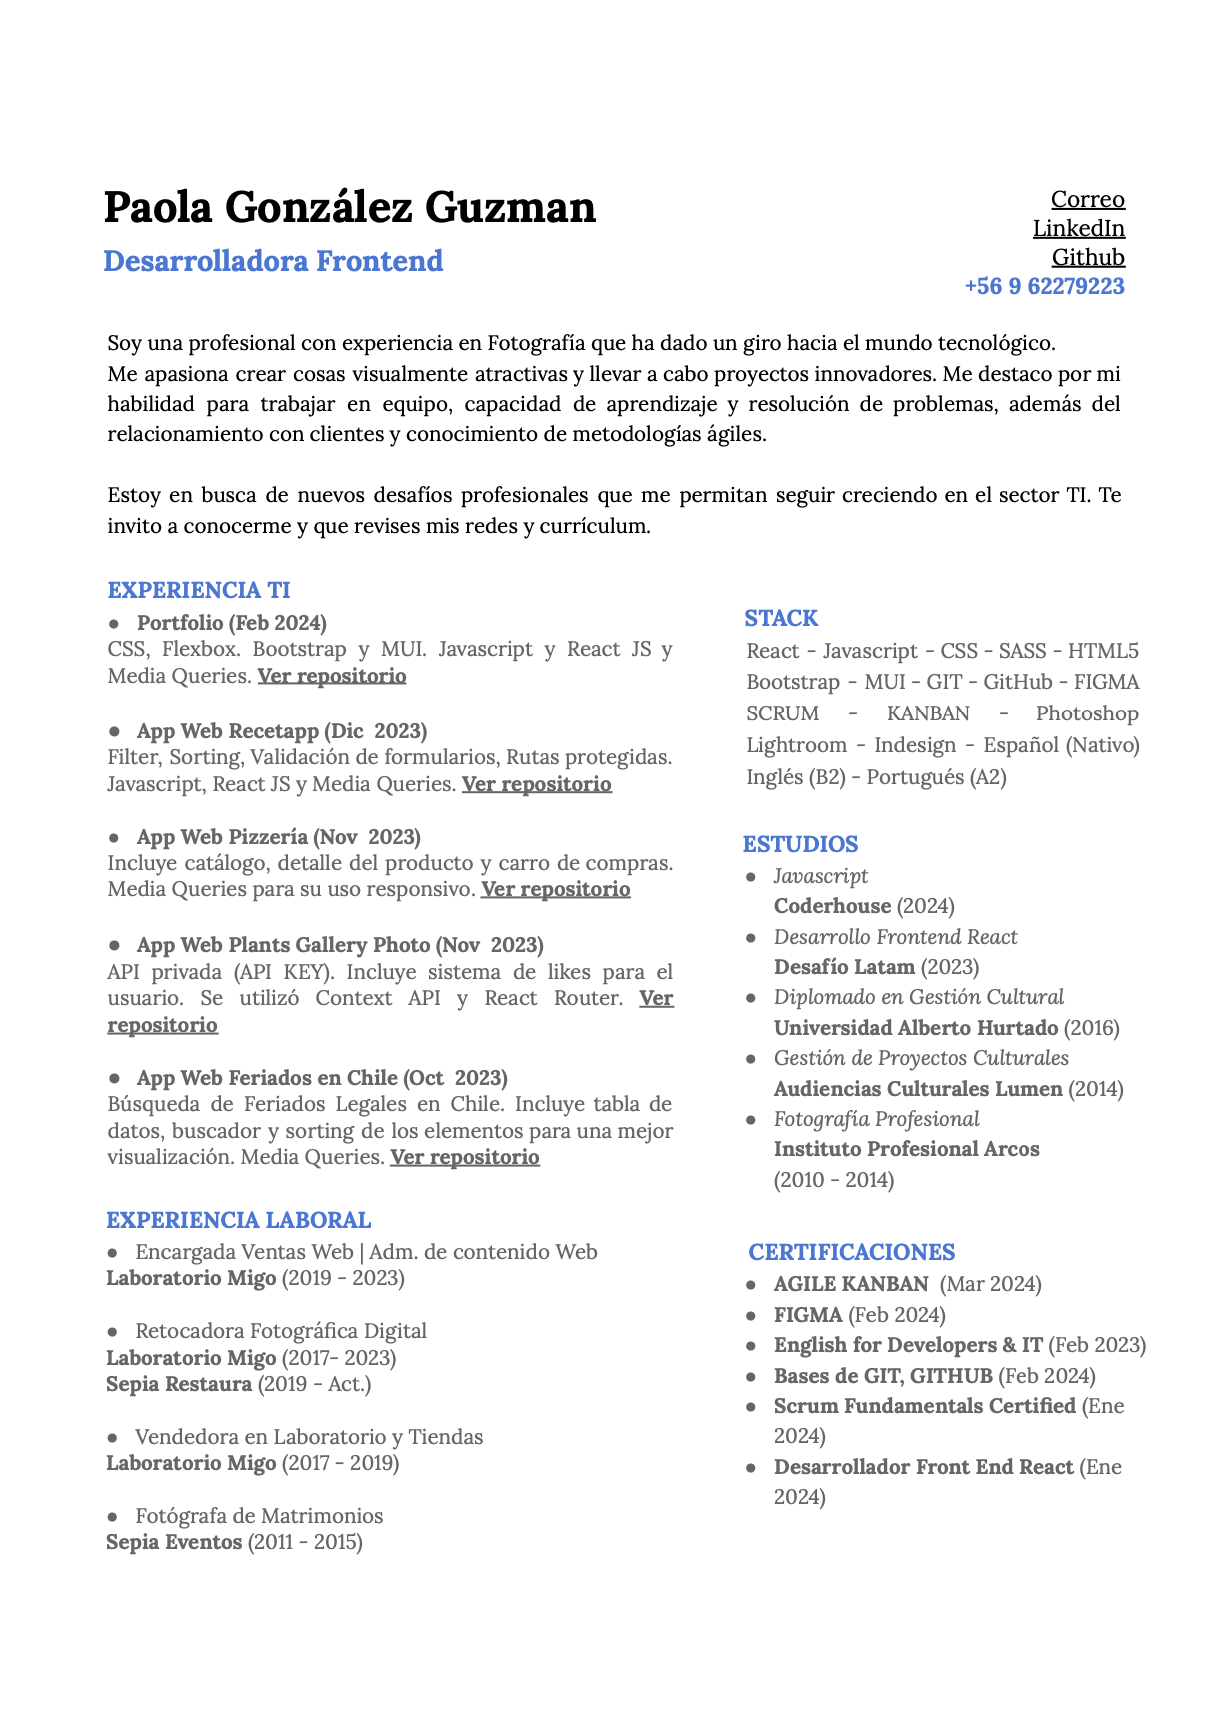
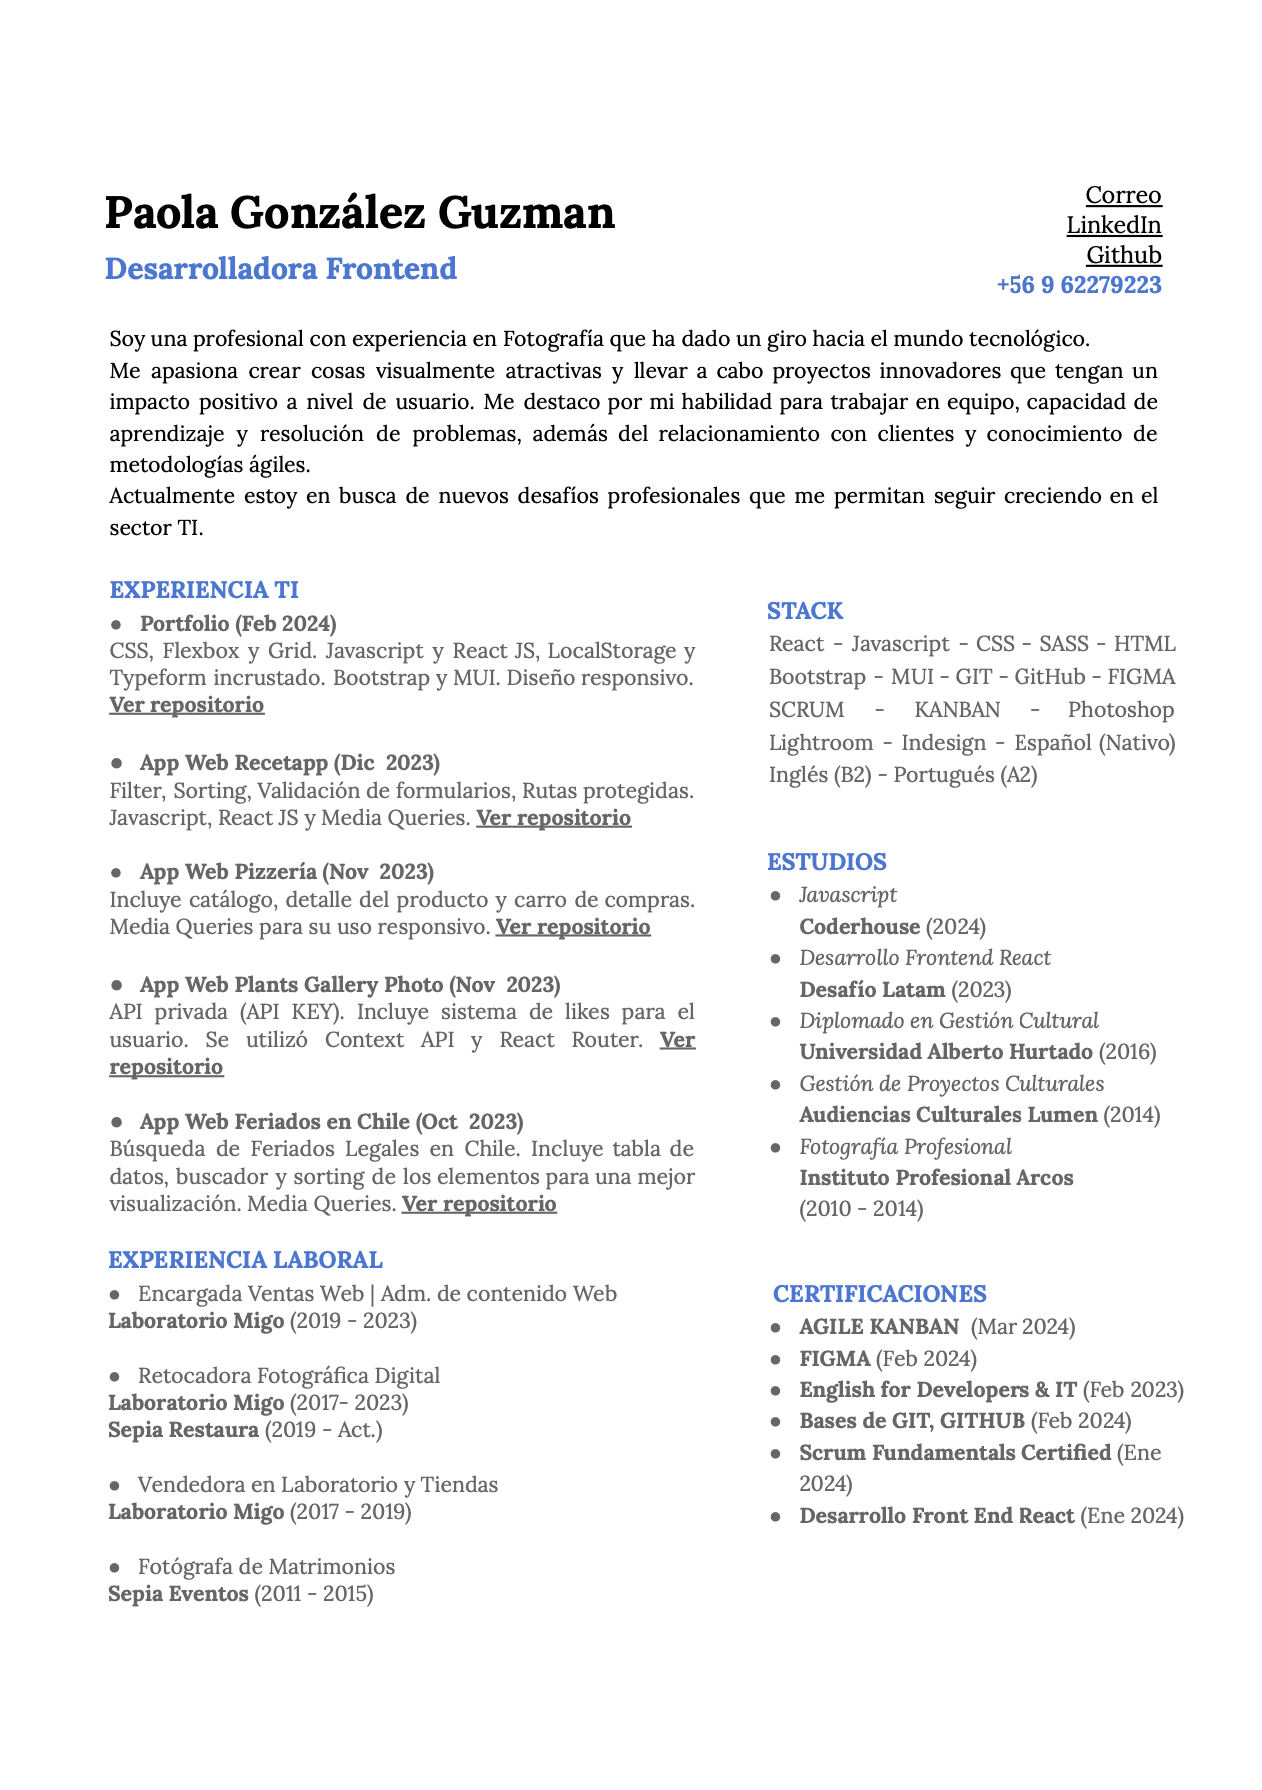
cv changes

diff --git a/src/components/CaruselCert.jsx b/src/components/CaruselCert.jsx
@@ -5,6 +5,11 @@ function CaruselCert() {
     return (
         <Carousel>
             <Carousel.Item>
+                <a href="https://www.udemy.com/certificate/UC-11fd511e-48fd-44b8-9863-bcfd8f6d3c8e/" target="_blank" rel="noopener noreferrer">
+                    <img className="box-content-img" src="./img/certificaciones/certificacion-6.png" alt="certificado Udemy" />
+                </a>
+            </Carousel.Item>
+            <Carousel.Item>
                 <a href="https://cursos.desafiolatam.com/certificates/0jsrdhqq4s" target="_blank" rel="noopener noreferrer">
                     <img className="box-content-img" src="./img/certificaciones/certificacion-5.png" alt="certificado ADL" />
                 </a>

diff --git a/src/views/Cv.jsx b/src/views/Cv.jsx
@@ -4,11 +4,11 @@ import { Link } from "react-router-dom";
 
 const Cv = () => {
     const handleDownloadClick = () => {
-        window.open("https://drive.google.com/file/d/1pCNTRqXQdr-6ms53zUbEpalykj3Pr3gD/view?usp=sharing", "_blank");
+        window.open("https://drive.google.com/file/d/1sOYkdxyaOU1LWz_ug6x3ulhgoRkpyusL/view?usp=drive_link", "_blank");
     };
 
     const handleDownloadClickPdf = () => {
-        window.open("https://drive.google.com/file/d/1q7Kg1eD3Law2PmX8Ijld6nzkaeuFBbpm/view?usp=drive_link", "_blank");
+        window.open("https://drive.google.com/file/d/1Afz8CZ1oW51xx2UedA3j_eTQ_oOzbQbH/view?usp=sharing", "_blank");
     };
 
     return (

diff --git a/src/components/Home.jsx b/src/components/Home.jsx
@@ -82,7 +82,7 @@ const Home = () => {
                                 </a>
 
                                 <a
-                                    href="https://drive.google.com/file/d/1q7Kg1eD3Law2PmX8Ijld6nzkaeuFBbpm/view?usp=drive_link"
+                                    href="https://drive.google.com/file/d/1Afz8CZ1oW51xx2UedA3j_eTQ_oOzbQbH/view?usp=sharing"
                                     target="_blank"
                                     rel="noopener noreferrer"
                                 >
